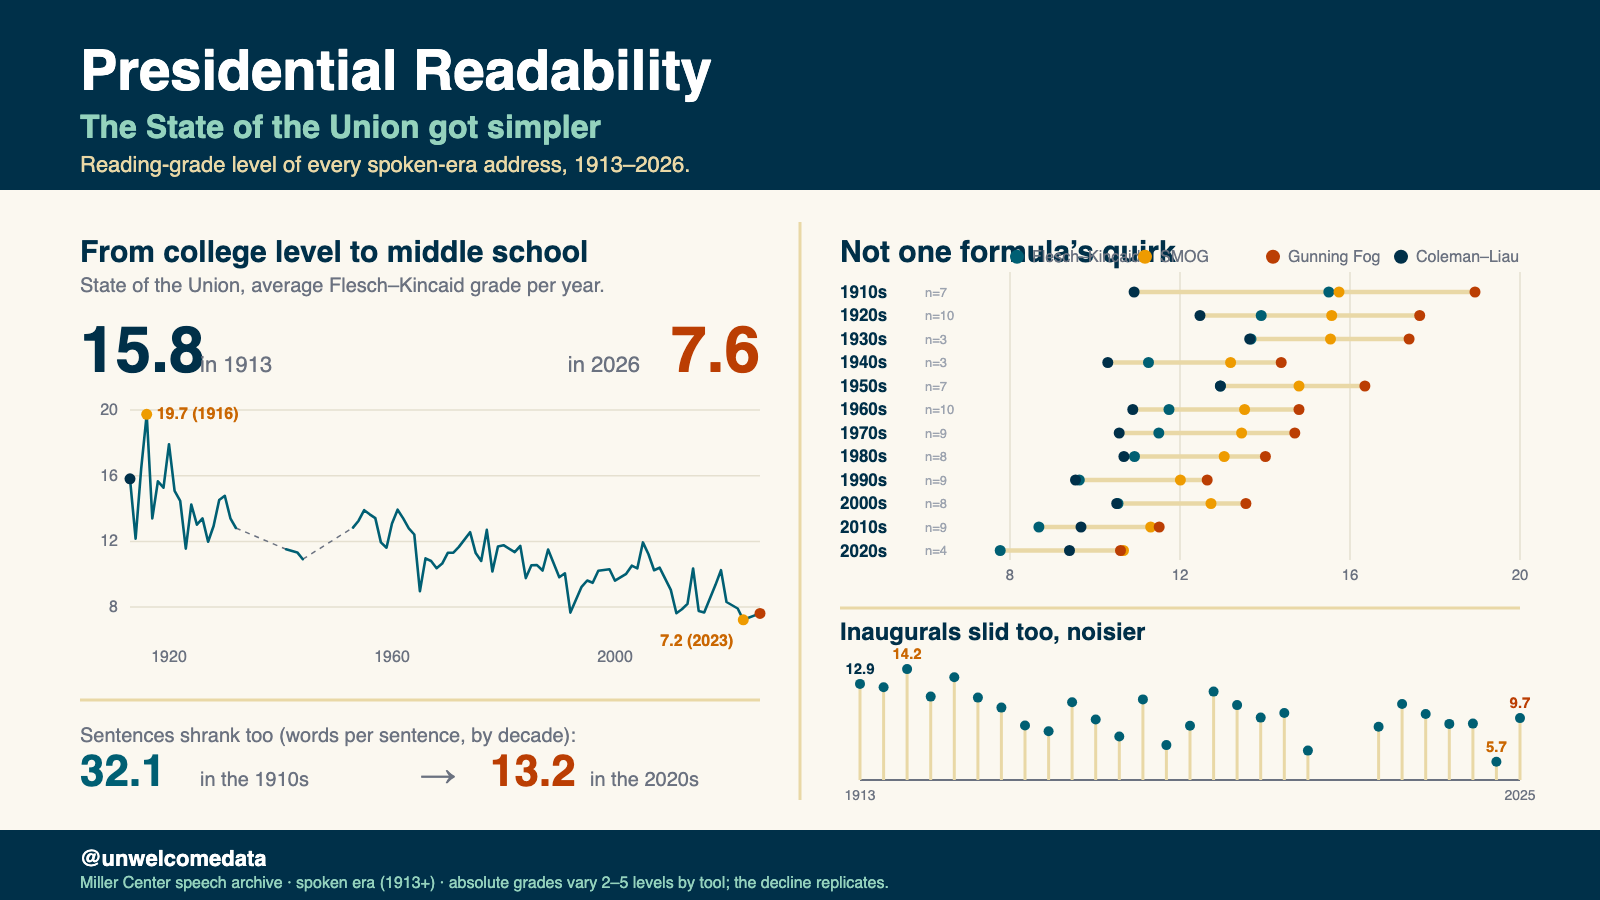
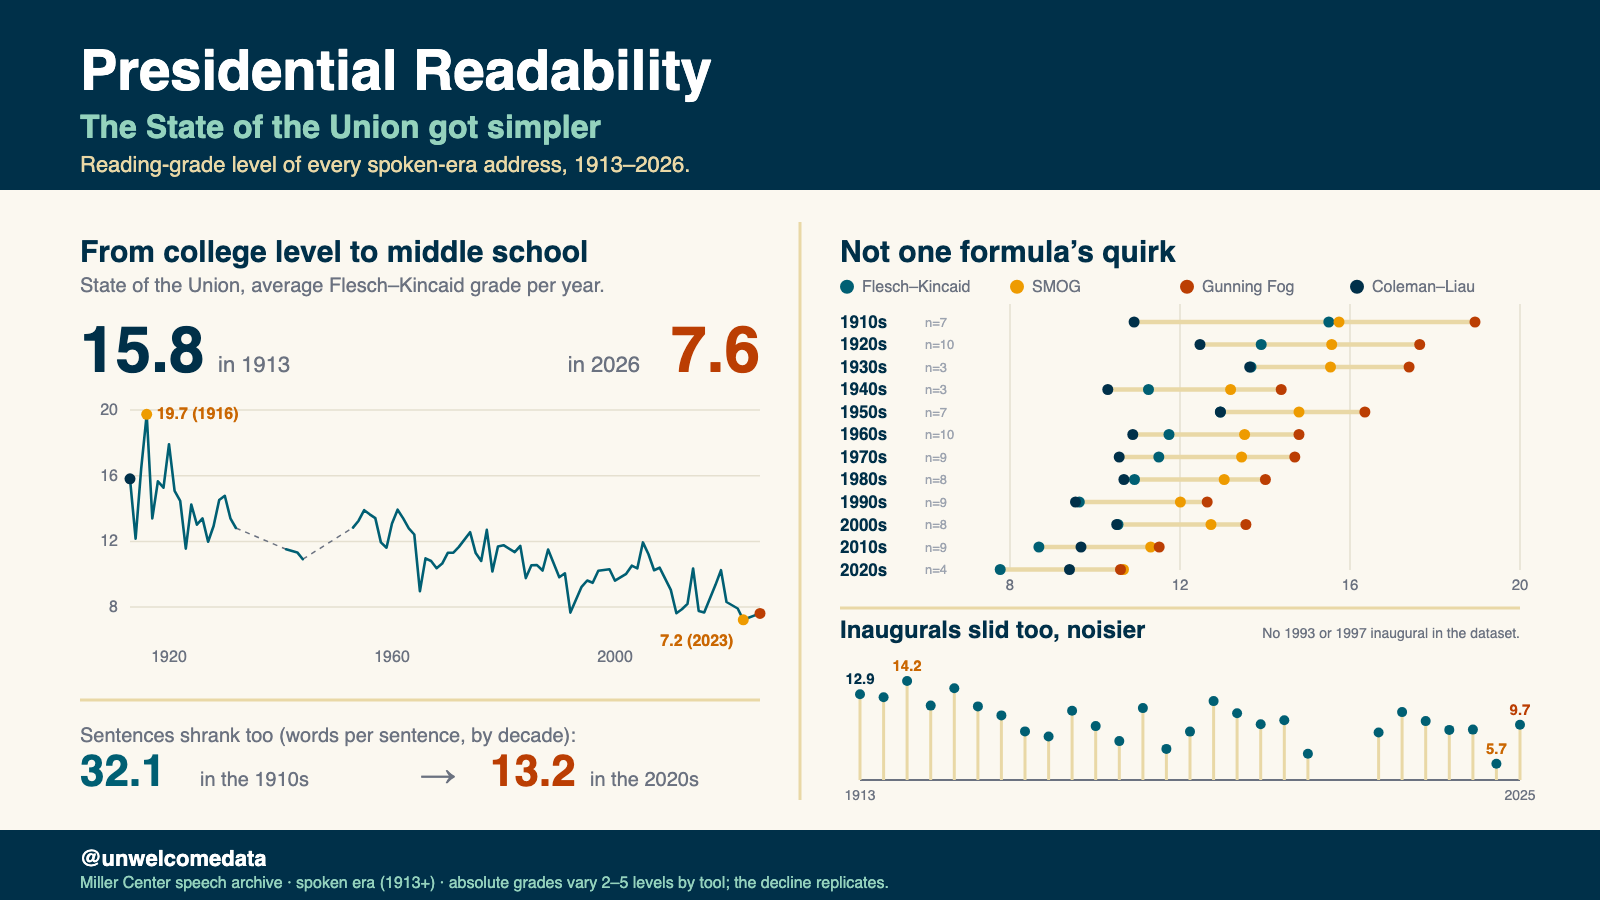
wip(infographic): presidential-readability draft 2 (overlap fixes) for review

diff --git a/scripts/_build_infographic.py b/scripts/_build_infographic.py
@@ -153,7 +153,7 @@ def build_tall(d):
         grid2.append(t(x2(g), 1668, str(g), 18, GREY, anchor="middle"))
     # S3 words per sentence: bars, scale px per word
     w10, w20 = d["wps"][1910][0], d["wps"][2020][0]
-    pw = 26.0  # px per word
+    pw = 22.0  # px per word
     # S4 inaugural: x 150..1120 (1913..2025), y baseline grade 4 at 2420, 16 at 2180
     xs4 = Lin(1913, 2025, 150, 1120); ys4 = Lin(4, 16, 2420, 2180)
     lol = inaug_lollipops(d, xs4, ys4, 2420, 7)
@@ -211,7 +211,7 @@ def build_tall(d):
   <!-- 2020s {w20} words -> {w20*pw:.1f}px -->
   <rect x="200" y="1924" width="{f(w20*pw)}" height="40" fill="{SPICE}"/>
   {t(200+w20*pw+14,1954,f"{w20:.1f} words",26,NAVY,"bold")}
-  {t(80,2010,"Shorter sentences are a large part of why the grade-level formulas fall.",22,GREY)}
+  {t(80,2010,"Words per sentence is one of the two inputs to the Flesch&#8211;Kincaid formula.",22,GREY)}
   <line x1="80" y1="2050" x2="1120" y2="2050" stroke="{VANILLA}" stroke-width="3"/>
 
   <!-- SECTION 4 — inaugurals -->
@@ -223,6 +223,7 @@ def build_tall(d):
   {t(xs4(imax[0]),ys4(imax[1])-16,f"{imax[1]:.1f}",20,"#CA6702","bold",anchor="middle")}
   {t(xs4(imin[0]),ys4(imin[1])-16,f"{imin[1]:.1f}",20,"#CA6702","bold",anchor="middle")}
   {t(xs4(ilast[0]),ys4(ilast[1])-16,f"{ilast[1]:.1f}",20,SPICE,"bold",anchor="middle")}
+    {t(1120,2472,"No 1993 or 1997 inaugural in the dataset.",18,GREY,anchor="end")}
   {t(xs4(1913),2448,"1913",18,GREY,anchor="middle")}{t(xs4(1965),2448,"1965",18,GREY,anchor="middle")}{t(xs4(2025),2448,"2025",18,GREY,anchor="middle")}
 
   <!-- FOOTER -->
@@ -246,13 +247,13 @@ def build_social(d):
     ticks1 = "".join(t(xs1(y), 662, str(y), 16, GREY, anchor="middle") for y in (1920, 1960, 2000))
     # right-top formulas: x 1000..1520 grade 8..20, rows from y=285 pitch 24
     x2 = Lin(8, 20, 1010, 1520)
-    rows = formula_rows(d, x2, 292, 23.5, 840, 925, 5.5, 17, 13)
+    rows = formula_rows(d, x2, 322, 22.5, 840, 925, 5.5, 17, 13)
     grid2 = []
     for g in (8, 12, 16, 20):
-        grid2.append(f'<line x1="{f(x2(g))}" y1="272" x2="{f(x2(g))}" y2="560" stroke="#E5E0D0" stroke-width="1.5"/>')
-        grid2.append(t(x2(g), 580, str(g), 15, GREY, anchor="middle"))
+        grid2.append(f'<line x1="{f(x2(g))}" y1="304" x2="{f(x2(g))}" y2="570" stroke="#E5E0D0" stroke-width="1.5"/>')
+        grid2.append(t(x2(g), 590, str(g), 15, GREY, anchor="middle"))
     # right-bottom inaugural: x 860..1520 (1913..2025), baseline grade 4 at 780, 16 at 645
-    xs4 = Lin(1913, 2025, 860, 1520); ys4 = Lin(4, 16, 780, 650)
+    xs4 = Lin(1913, 2025, 860, 1520); ys4 = Lin(4, 16, 780, 664)
     lol = inaug_lollipops(d, xs4, ys4, 780, 5)
     imax = max(d["inaug"], key=lambda p: p[1]); imin = min(d["inaug"], key=lambda p: p[1])
     ifirst, ilast = d["inaug"][0], d["inaug"][-1]
@@ -276,7 +277,7 @@ def build_social(d):
   {t(80,262,"From college level to middle school",30,NAVY,"bold")}
   {t(80,292,"State of the Union, average Flesch&#8211;Kincaid grade per year.",20,GREY)}
   {t(80,372,f"{first[1]:.1f}",64,NAVY,"bold")}
-  {t(200,372,f"in {first[0]}",22,GREY)}
+  {t(218,372,f"in {first[0]}",22,GREY)}
   {t(760,372,f"{last[1]:.1f}",64,SPICE,"bold",anchor="end")}
   {t(640,372,f"in {last[0]}",22,GREY,anchor="end")}
   {chr(10).join("  "+g for g in grid1)}
@@ -292,14 +293,14 @@ def build_social(d):
 
   <!-- RIGHT TOP — four formulas -->
   {t(840,262,"Not one formula&#8217;s quirk",30,NAVY,"bold")}
-  {t(840,282,"",1,GREY)}
-  {legend(1010,262,16,128)}
+    {legend(840,292,16,170)}
   {chr(10).join("  "+g for g in grid2)}
   {rows}
   <line x1="840" y1="608" x2="1520" y2="608" stroke="{VANILLA}" stroke-width="3"/>
 
   <!-- RIGHT BOTTOM — inaugurals -->
-  {t(840,640,"Inaugurals slid too, noisier",24,NAVY,"bold")}
+  {t(840,638,"Inaugurals slid too, noisier",24,NAVY,"bold")}
+  {t(1520,638,"No 1993 or 1997 inaugural in the dataset.",14,GREY,anchor="end")}
   <line x1="860" y1="780" x2="1520" y2="780" stroke="{GREY}" stroke-width="2"/>
   {lol}
   {t(xs4(ifirst[0]),ys4(ifirst[1])-10,f"{ifirst[1]:.1f}",15,NAVY,"bold",anchor="middle")}
@@ -329,7 +330,7 @@ def validate(d, tall, social):
         "tall": dict(svg=tall, xs=Lin(1913, 2026, 150, 1120), ys=Lin(6, 20, 870, 570),
                      x2=Lin(8, 20, 260, 1120), xi=Lin(1913, 2025, 150, 1120), yi=Lin(4, 16, 2420, 2180)),
         "social": dict(svg=social, xs=Lin(1913, 2026, 130, 760), ys=Lin(6, 20, 640, 410),
-                       x2=Lin(8, 20, 1010, 1520), xi=Lin(1913, 2025, 860, 1520), yi=Lin(4, 16, 780, 650)),
+                       x2=Lin(8, 20, 1010, 1520), xi=Lin(1913, 2025, 860, 1520), yi=Lin(4, 16, 780, 664)),
     }
     sotu = dict(d["sotu"])
     for name, s in spec.items():
@@ -366,7 +367,7 @@ def validate(d, tall, social):
     # tall-only bars + big numbers
     w10, w20 = d["wps"][1910][0], d["wps"][2020][0]
     bw = [float(x) for x in re.findall(r'<rect x="200" y="\d+" width="([\d.]+)"', tall)]
-    chk("tall: sentence bars width = words x 26px", len(bw) == 2 and abs(bw[0] / 26 - w10) < 0.05 and abs(bw[1] / 26 - w20) < 0.05, f"{bw[0]/26:.2f}, {bw[1]/26:.2f}")
+    chk("tall: sentence bars width = words x 22px", len(bw) == 2 and abs(bw[0] / 22 - w10) < 0.05 and abs(bw[1] / 22 - w20) < 0.05, f"{bw[0]/22:.2f}, {bw[1]/22:.2f}")
     chk("big numbers: 1913 and 2026 values in both renders",
         all(f"{sotu[y]:.1f}" in svg for svg in (tall, social) for y in (1913, 2026)))
     chk("headline: FK 1913 = 15.81, 2026 = 7.62, drop >= 5 grades", sotu[1913] == 15.81 and sotu[2026] == 7.62)
